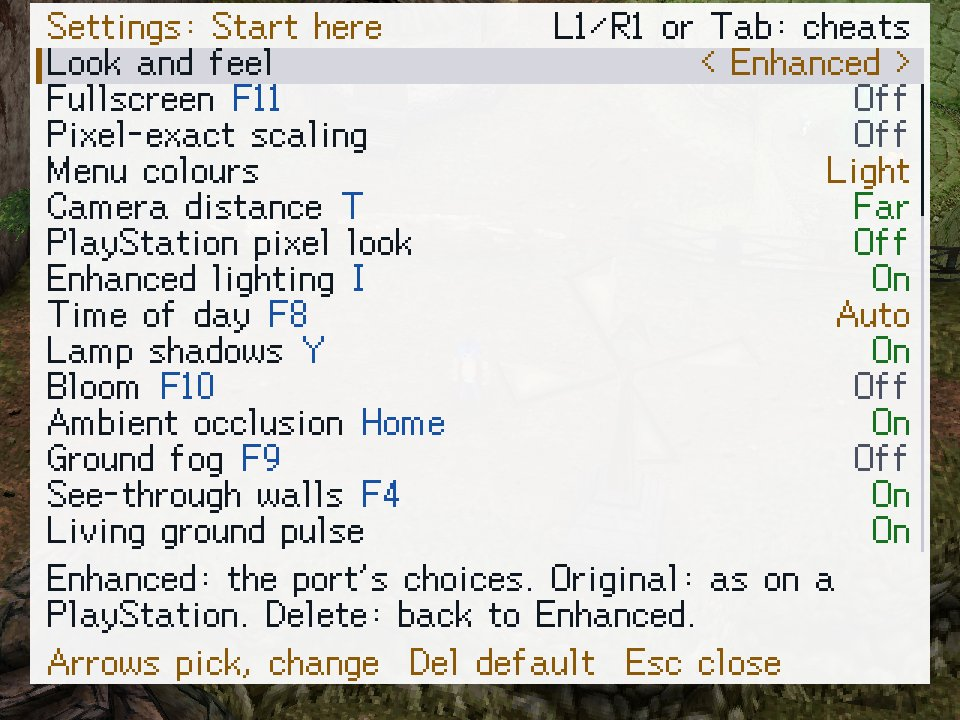
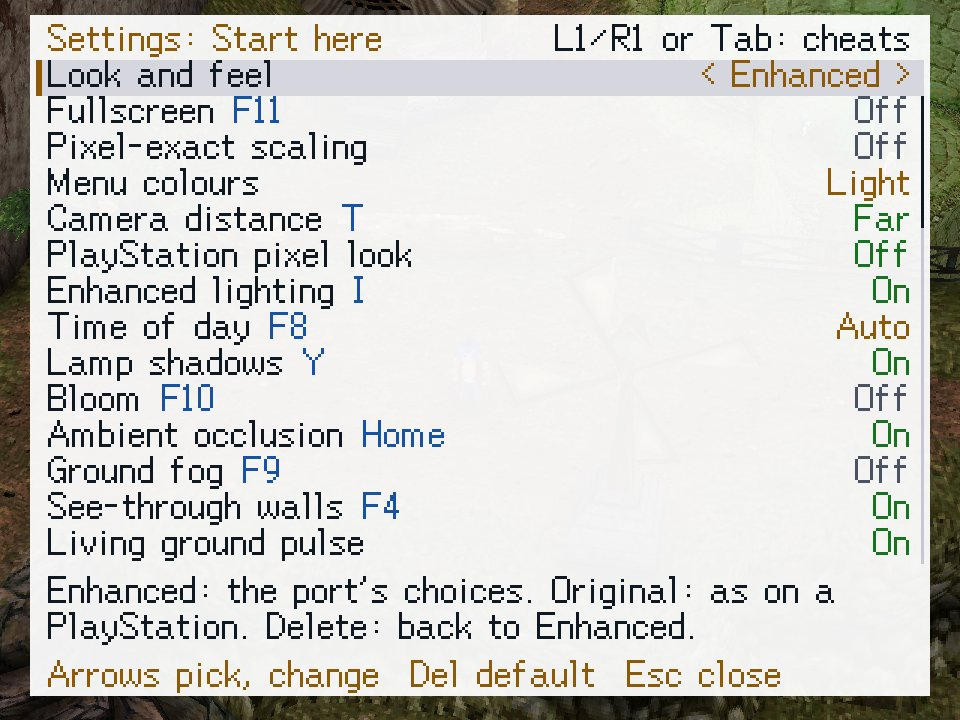
UI: F12 list plates split the air above and below
Every list page's plate stood on stage row 1, flush with the window's
top edge, with twelve free rows under the tallest plate. Row 5 splits
them and keeps the eight-row foot margin the plate test holds; 14 rows
stay. Settings, light Settings and Tools guide images re-shot.

Changed region(s): [[0.0312, 0.0, 0.9688, 0.9778]]

diff --git a/crates/engine-shell/src/window/settings_panel.rs b/crates/engine-shell/src/window/settings_panel.rs
@@ -226,8 +226,12 @@ pub(super) fn wrap_lines(text: &str, max_w: i32, width: &dyn Fn(&str) -> i32) ->
 /// Stage geometry of the settings page. Its plate is translucent and narrower
 /// than the stage, so a toggled light or fog shows around it.
 const X0: i32 = 10;
-/// The top of every list page's plate.
-pub(super) const Y0: i32 = 1;
+/// The top of every list page's plate. The tallest plate (Settings, Scenes:
+/// [`SHOWN_ROWS`] rows and a two-line help) is 227 stage rows, so a plate
+/// on row 1 hugged the window's top edge with twelve free rows under it;
+/// row 5 splits the air and keeps eight rows (`PLATE_FOOT_MARGIN`) under
+/// the controls line.
+pub(super) const Y0: i32 = 5;
 const WIDTH: i32 = 300;
 /// The pitch of a list row on every page of the panel. The font's ink is 11
 /// rows tall, capitals to descenders, so at an 11-row pitch a `g` or a `p`
